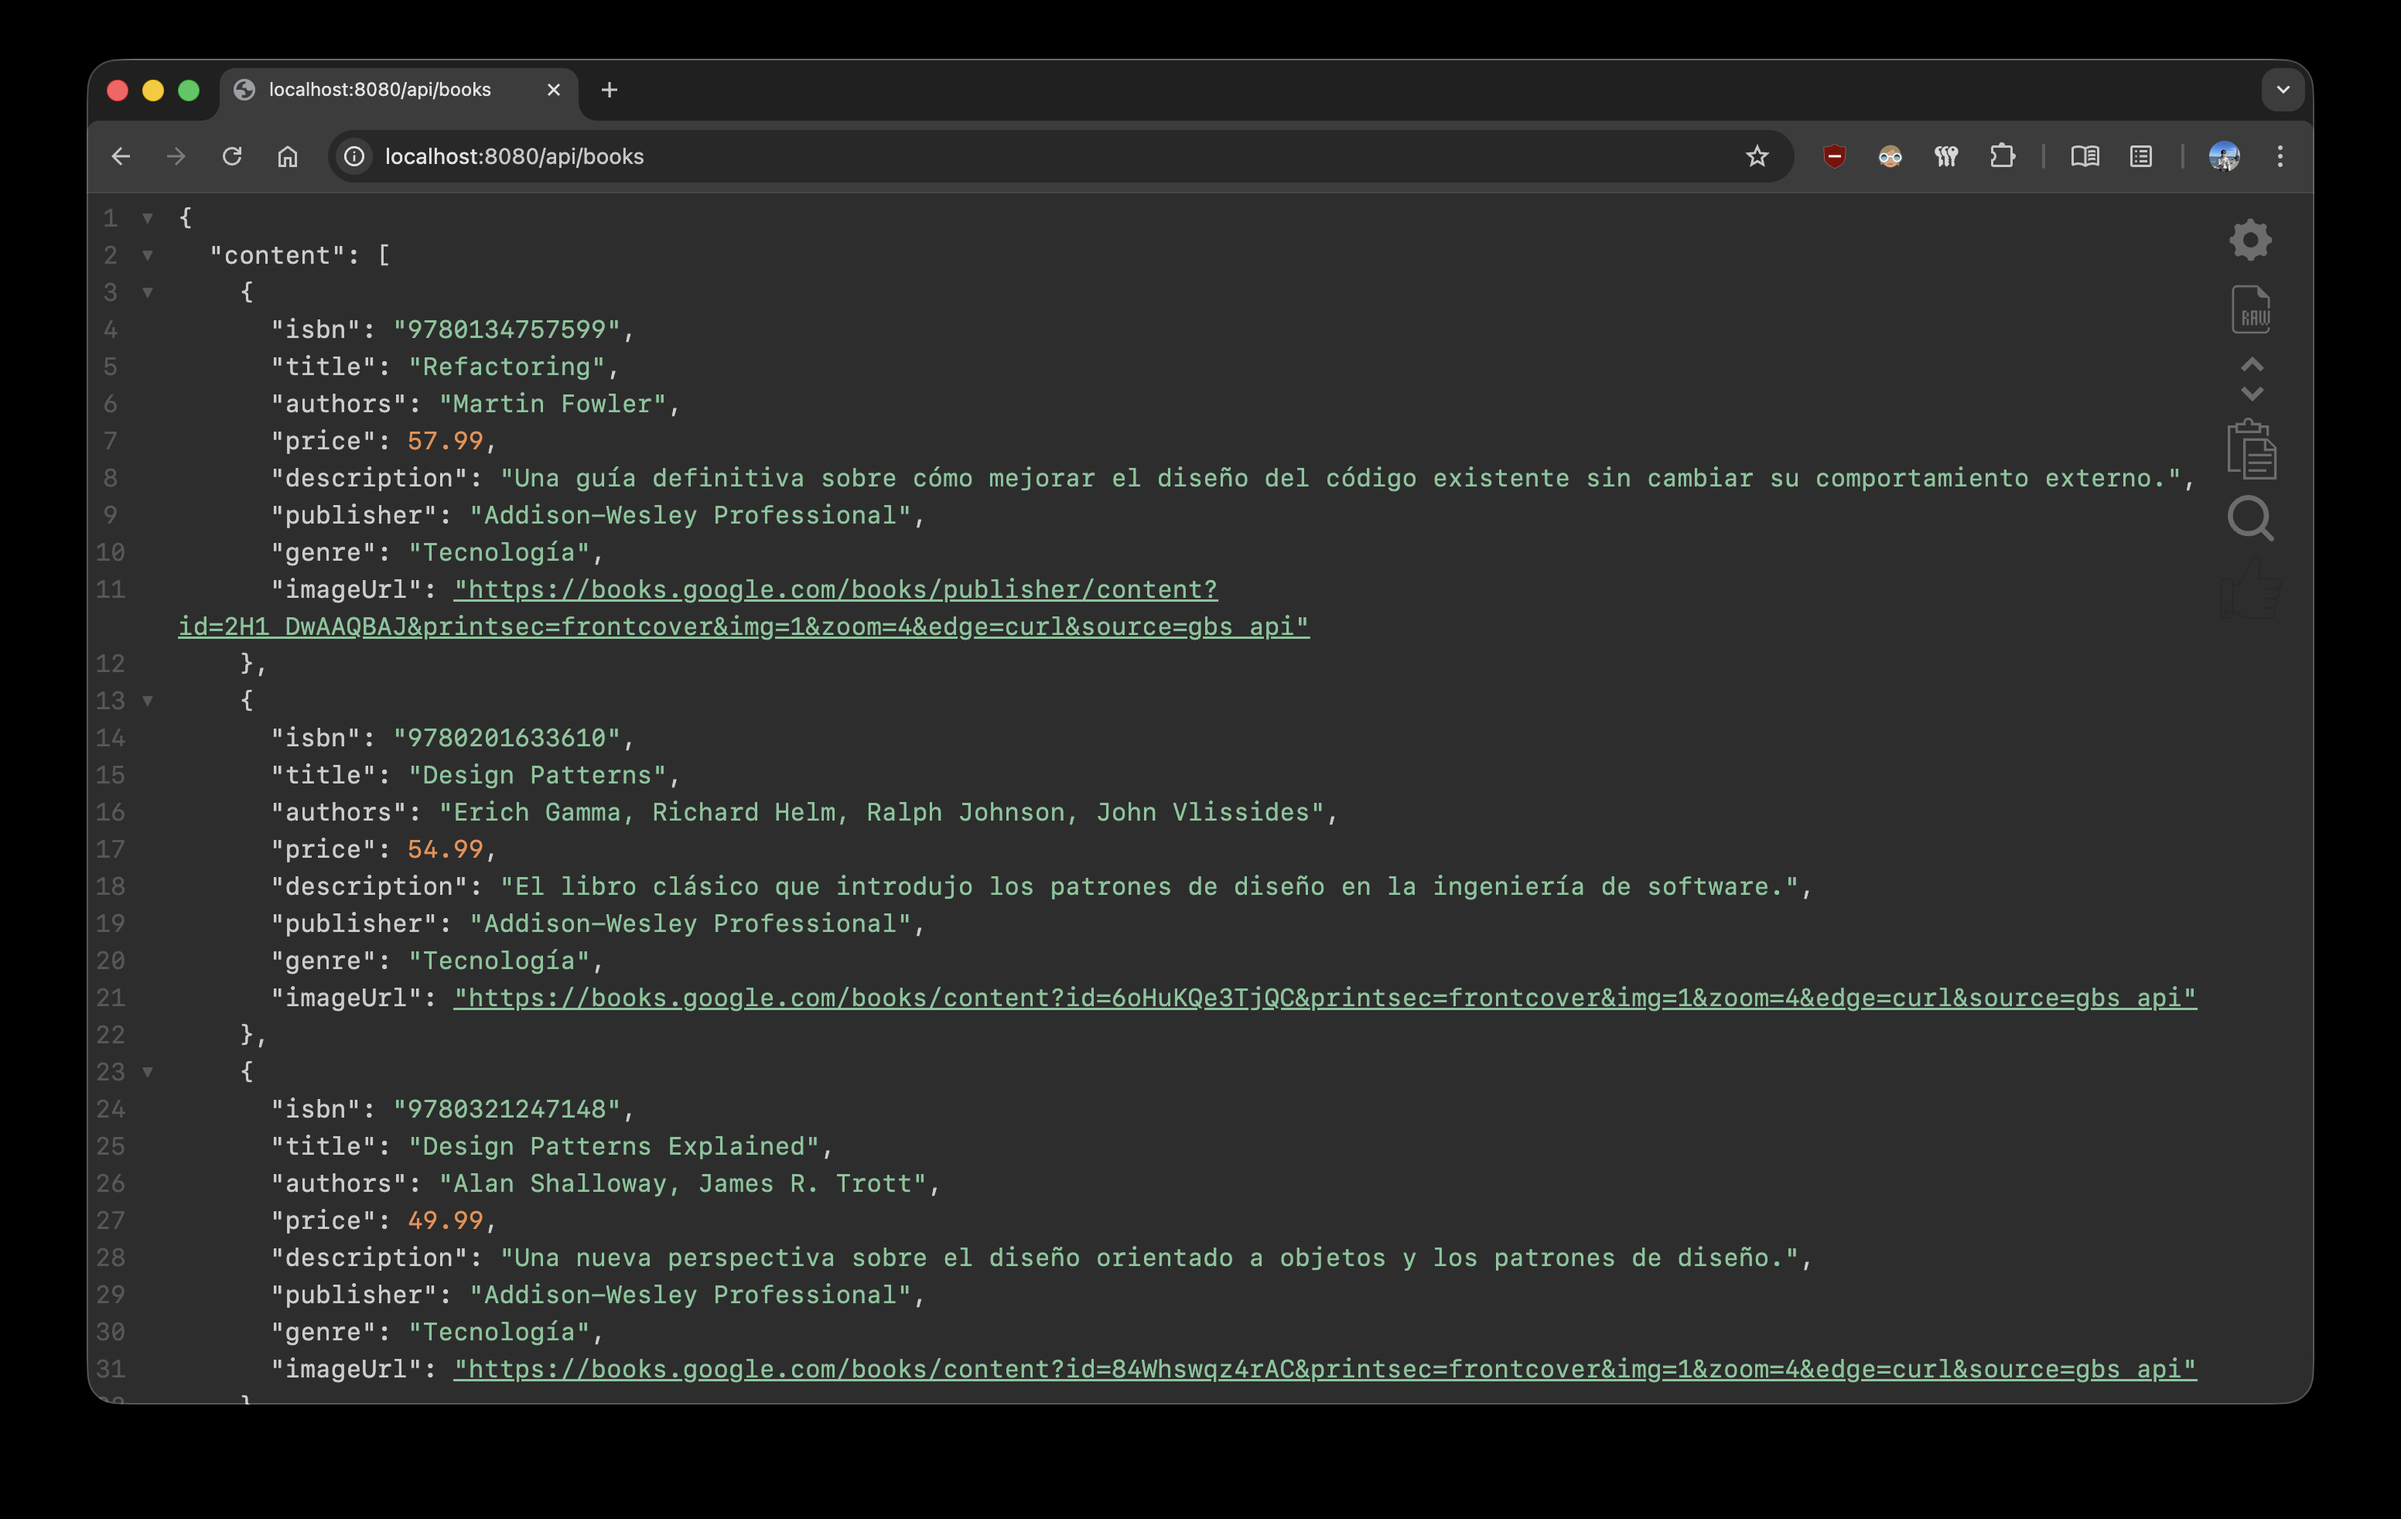
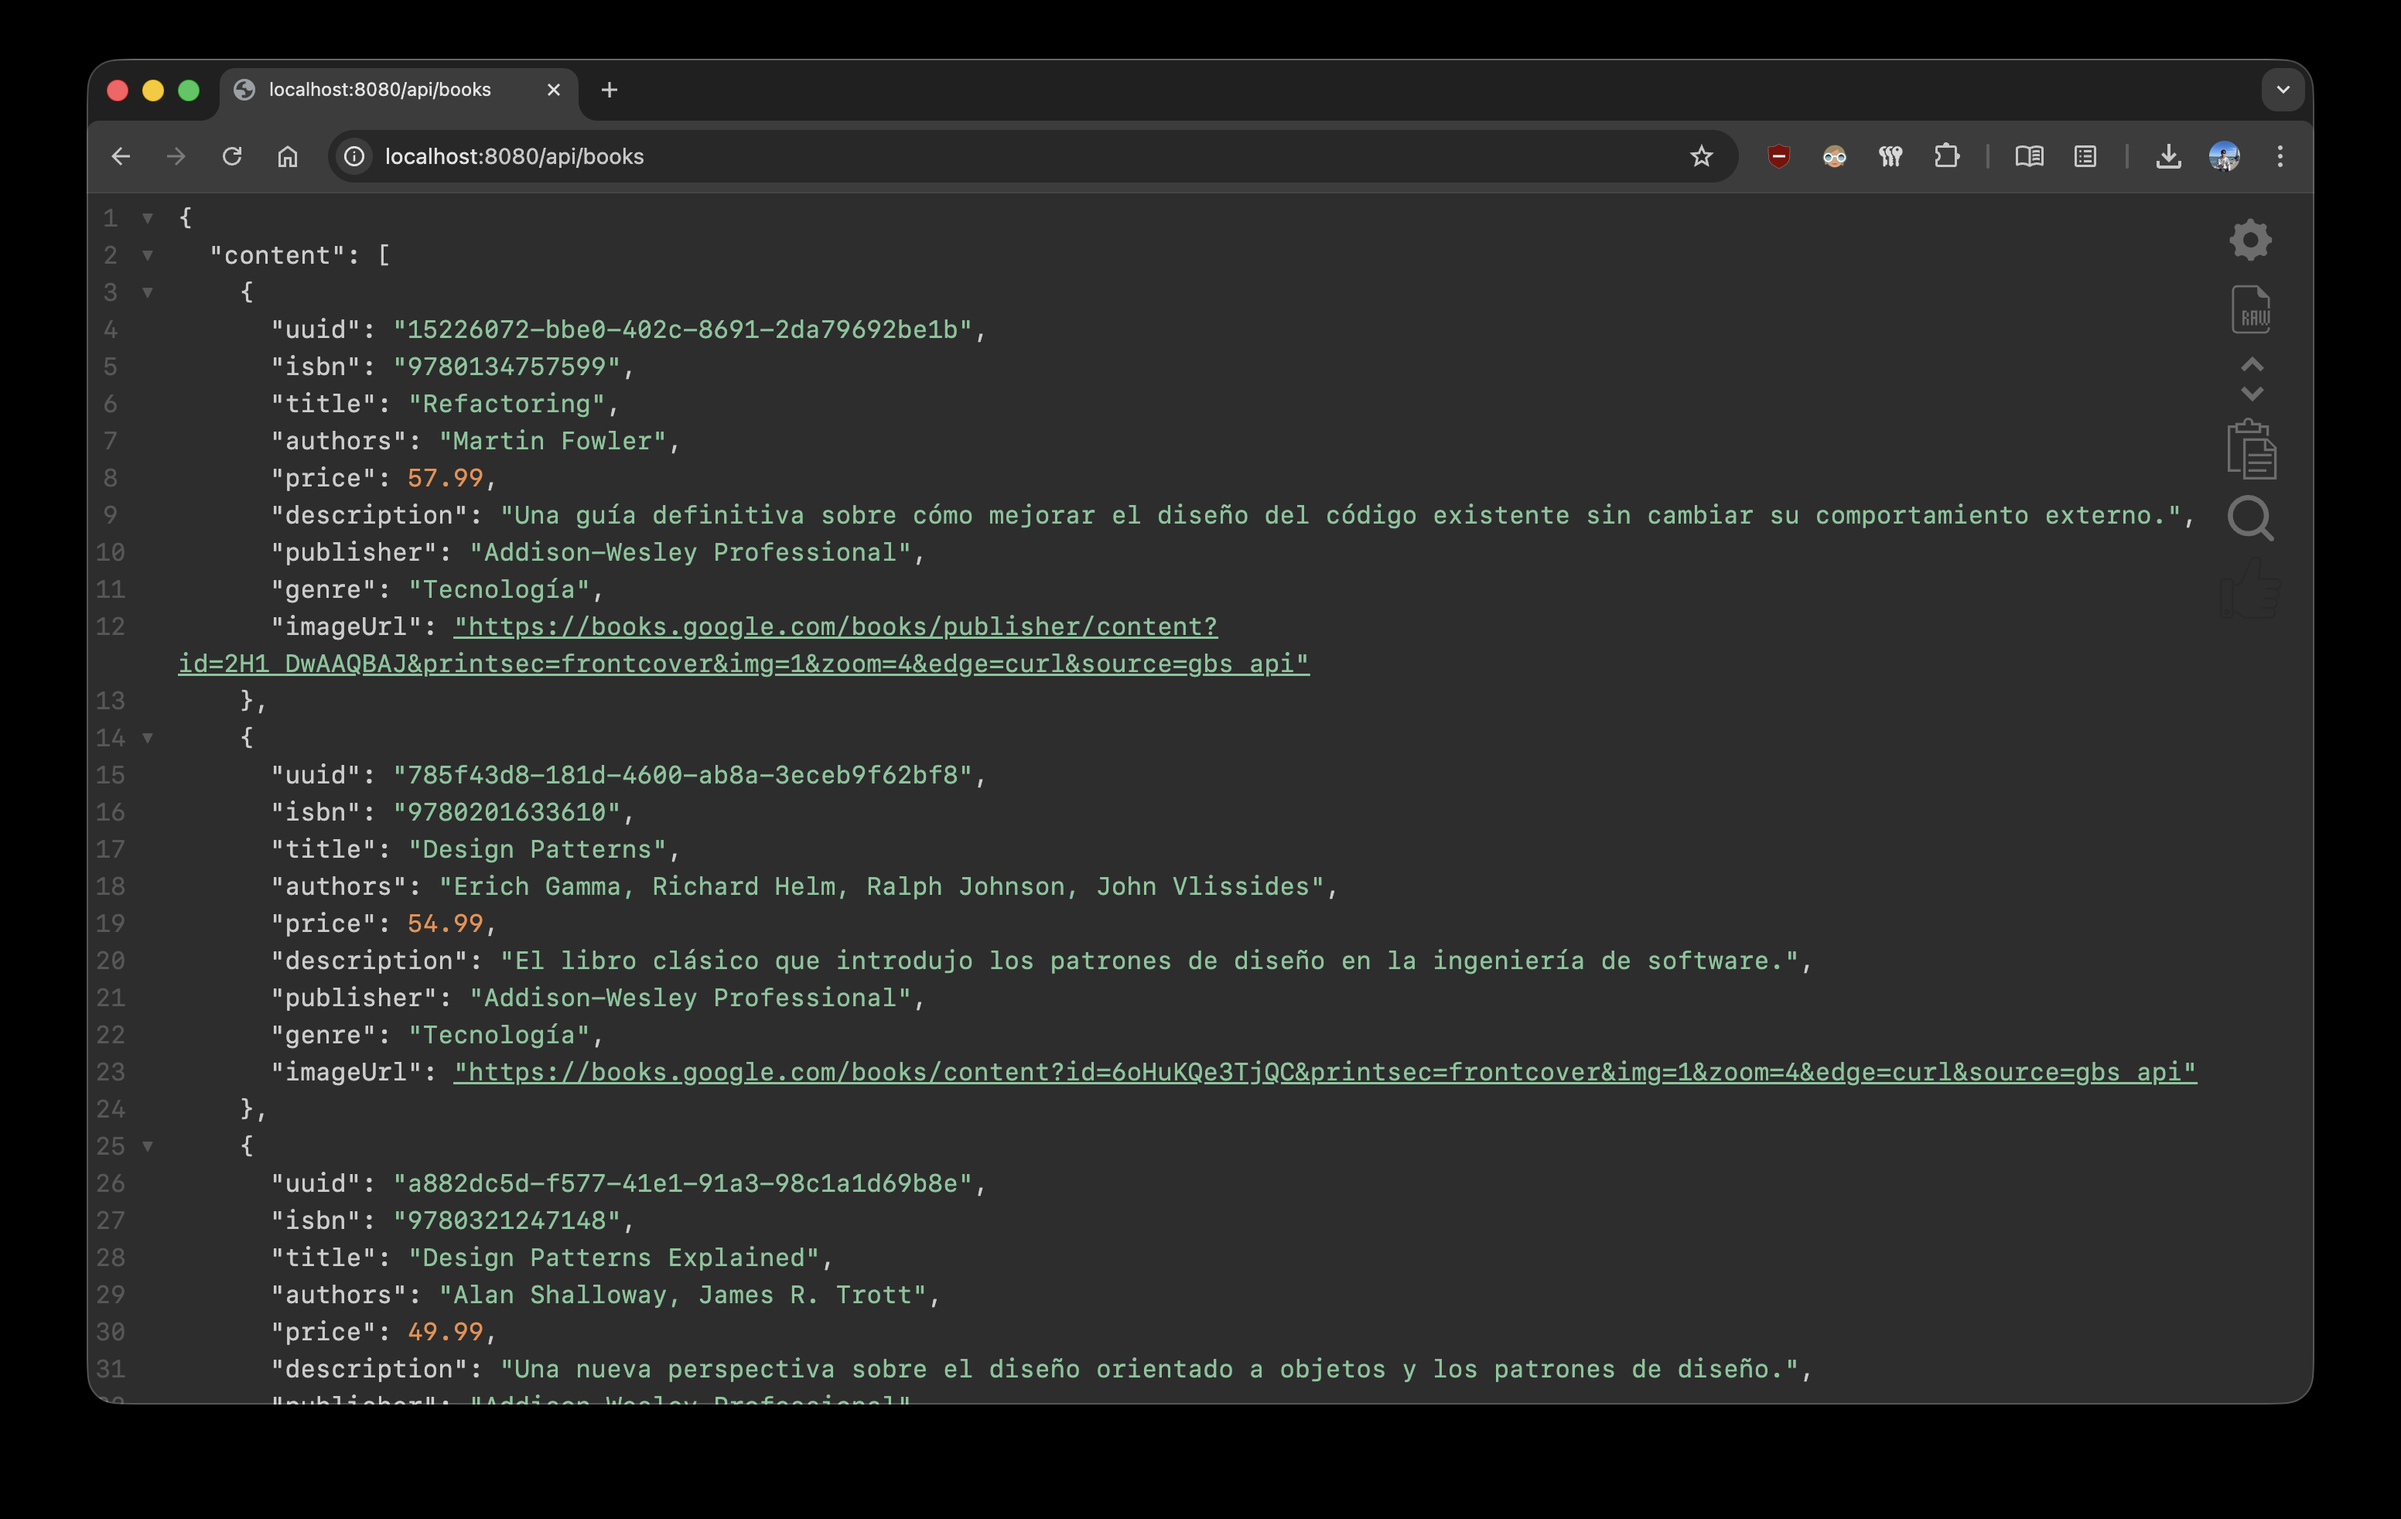
docs: update README to reflect UUID migration and API changes
- Updates endpoint documentation to specify UUID usage for lookup and modification
- Adds documentation for the new '/api/books/isbn/{isbn}' endpoint
- Explains the 'restore-on-create' logic for soft-deleted books
- Updates the JSON response example to include the 'uuid' field

diff --git a/README.md b/README.md
@@ -44,7 +44,7 @@ La API estará disponible en:
 <http://localhost:8080/api/books>
 
 El panel phpMyAdmin estará disponible en:
-<http://localhost:8081/>
+<http://localhost:8081>
 
 - Usuario: `root`
 - Contraseña: `root`
@@ -52,7 +52,8 @@ El panel phpMyAdmin estará disponible en:
 ### Endpoints disponibles
 
 - `GET /api/books` - Listar todos los libros
-- `GET /api/books/{isbn}` - Obtener un libro por ISBN
+- `GET /api/books/{uuid}` - Obtener un libro por su UUID
+- `GET /api/books/isbn/{isbn}` - Obtener un libro por ISBN
 - `GET /api/books/search` - Buscar libros por criterios (título, autores, género, editorial)
   - **Parámetros opcionales (query params):**
     - `title` - Buscar por título (búsqueda parcial, no es sensible a mayúsculas y minúsculas)
@@ -64,8 +65,15 @@ El panel phpMyAdmin estará disponible en:
     - `/api/books/search?genre=FANTASÍA&authors=Patrick` - Libros de "patrick" del género "fantasía"
     - `/api/books/search` - Sin parámetros devuelve todos los libros
 - `POST /api/books` - Crear un libro
-- `PUT /api/books/{isbn}` - Actualizar un libro
-- `DELETE /api/books/{isbn}` - Eliminar un libro
+- `PUT /api/books/{uuid}` - Actualizar un libro
+- `DELETE /api/books/{uuid}` - Eliminar un libro (borrado lógico / soft delete)
+
+> [!NOTE] 
+> La API utiliza UUID como identificador para las operaciones de modificación y búsqueda específica.
+>
+> Al crear un libro, el sistema le asigna un UUID (que se incluye en la respuesta) para futuras consultas o modificaciones.
+>
+> Si intenta crear un libro con un ISBN que existe pero fue eliminado lógicamente, el sistema lo restaurará y actualizará sus datos.
 
 ### Paginación y ordenamiento
 
@@ -106,8 +114,11 @@ Todos los endpoints que devuelven listas de libros (`GET /api/books` y `GET /api
 
 ### Formato de un libro (ejemplo)
 
+La API devuelve el libro incluyendo su identificador único (uuid).
+
 ```JSON
 {
+  "uuid": "15226072-bbe0-402c-8691-2da79692be1b",
   "isbn": "9788466357562",
   "title": "1984",
   "authors": "George Orwell",
@@ -121,11 +132,11 @@ Todos los endpoints que devuelven listas de libros (`GET /api/books` y `GET /api
 
 ### Datos de prueba
 
-El proyecto contiene un CommandLineRunner que carga diez libros con datos de prueba. Esto ocurre la primera vez que se ejecuta la aplicación o que se corren los test.
+El proyecto contiene un **CommandLineRunner** que carga diez libros con datos de prueba. Esto ocurre la primera vez que se ejecuta la aplicación o que se corren los test.
 
 Si la base de datos ya contiene elementos (aunque estén eliminados lógicamente), no se agregarán libros.
 
-> [!NOTE]
+> [!WARNING]
 > Evite editar o borrar el archivo "src/main/resources/data/books.json" si no está seguro de cómo hacerlo o qué clases debe ajustar.
 >
 > Si desea evitar que se carguen datos de prueba, elimine los siguientes archivos para no generar ningún conflicto:
@@ -144,36 +155,15 @@ src/main/resources/data/books.json
 
 ### Test
 
-El proyecto contiene tests para las distintas capas. Se pueden ejecutar con el siguiente comando:
+El proyecto contiene tests para las distintas capas de la aplicación. Se pueden ejecutar con el siguiente comando:
 
 ```bash
 ./mvnw test
 ```
 
-### Script bash
-
-En la raíz del repositorio se encuentra el script **"test-books-api.sh"**. El objetivo de este script es que sirva como una demostración de los endpoints con diferentes verbos HTTP y las respuestas esperadas en base a la información proporcionada.
-
-#### Precondiciones para que el script funcione correctamente
-
-- Los comandos **curl** y **jq** deben estar instalados.
-- La BDD y la API deben estar en ejecución.
-
-1. Dar permiso de ejecución al script:
-
-```bash
-chmod +x test-books-api.sh
-```
-
-2. Ejecutar de la siguiente manera:
-
-```bash
-./test-books-api.sh
-```
-
 ### Colección Postman
 
-El archivo **"mercadolibros-springboot.postman_collection.json"** provee una colección para Postman que puede ser importada y utilizada. La ventaja de este enfoque es que ya tiene los endpoints disponibles y un ejemplo de que se espera para cada uno.
+El archivo **"mercadolibros-springboot.postman_collection.json"** provee una colección para Postman que puede ser importada y utilizada. La ventaja de este enfoque es que ya tiene los endpoints disponibles y ejemplos de que se espera para cada uno.
 
 ### Detener los servicios
 
